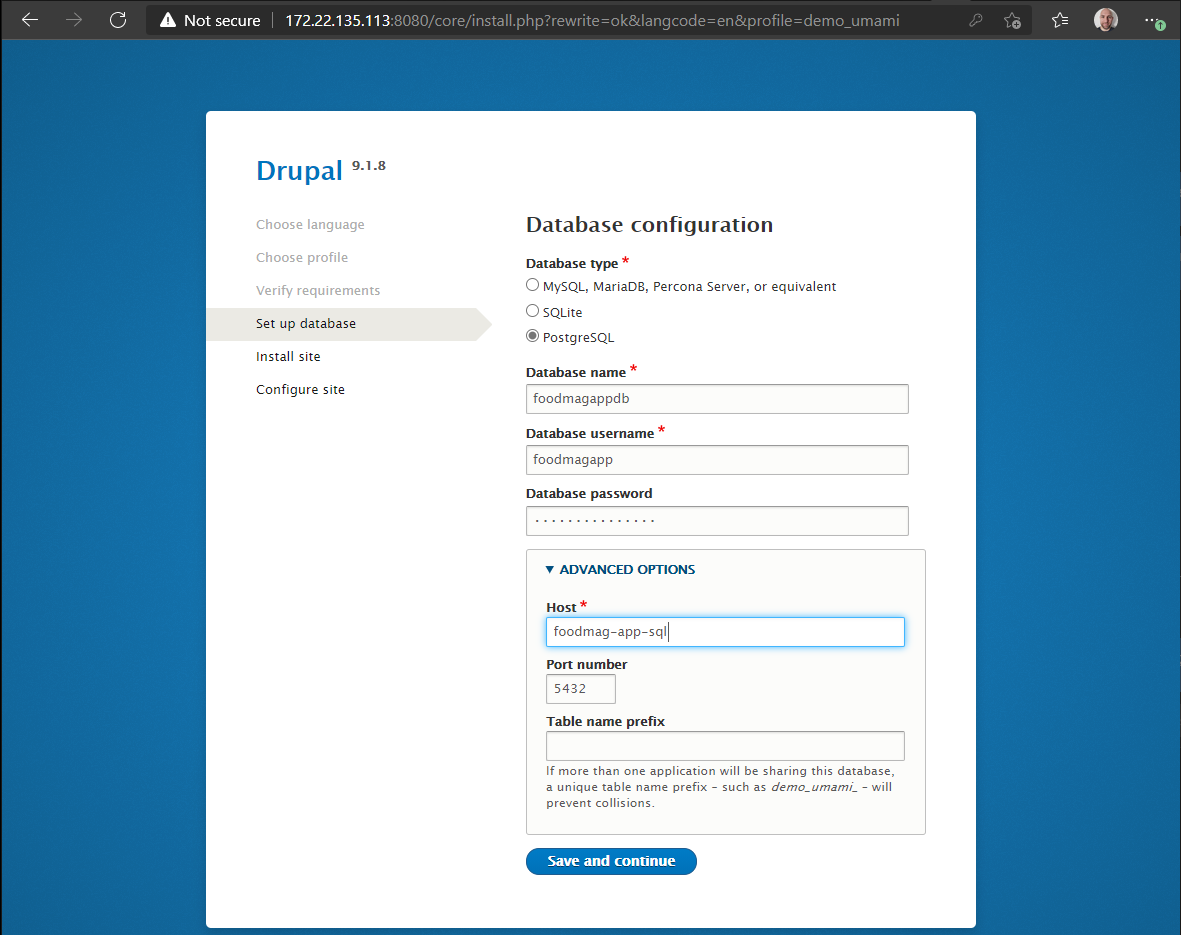
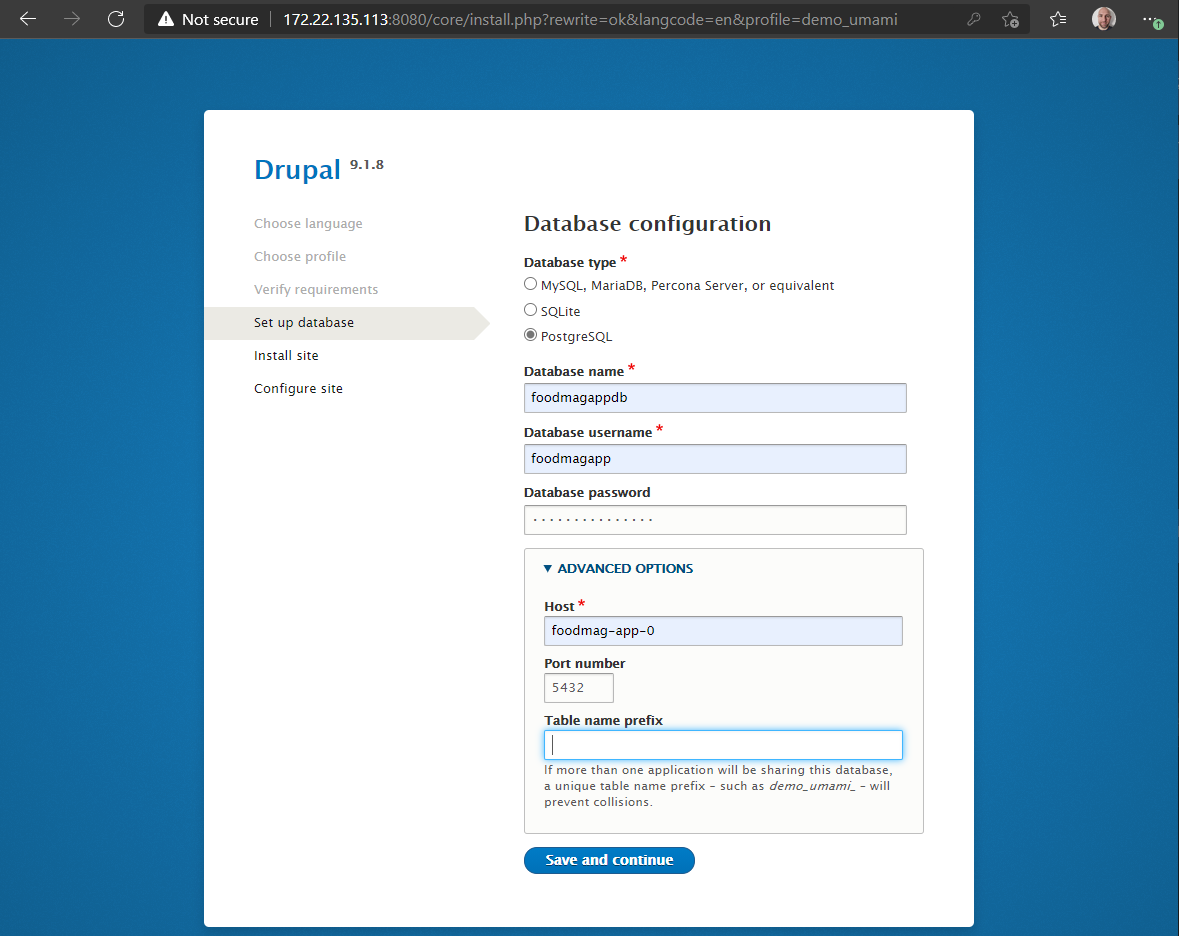
work on 201

diff --git a/doc/201/README.md b/doc/201/README.md
@@ -325,9 +325,11 @@ NAME                           READY   AGE   CONTAINERS                        I
 statefulset.apps/foodmag-app   1/1     8h    foodmag-app-sql,foodmag-app-cms   postgres:latest,drupal:latest
 ```
 
+Notes:
+- As discussed above, due to the exposure radius, the CMS use a [k8s service](https://kubernetes.io/docs/concepts/services-networking/service/) type ```NodePort``` to expose the service to the outside world while the database is using a ```ClusterIP``` to expose the service only within the cluster bubble.
+- At the current state, no external IP is currently assigned, which is expected. 
 
-
-Note at the current state, no external IP is currently assigned, which is expected. For the current time, a specific process will use to access the CMS front-end on a local machine:
+For the current time, a forwarding process will use to access the CMS front-end on a local machine:
 
 ```
 ip a
@@ -343,11 +345,27 @@ kubectl port-forward -n foodmag-app service/foodmag-app-cms-service 8080:80 --ad
 Forwarding from 172.22.135.113:8080 -> 80
 ```
 
-Open a browser with as URL ```172.22.135.113:8080``` which should show the following:
+Open a browser with as URL ```172.22.135.113:8080``` which should show the following:  
 
-![foodmag-app browser](images/foodmag-app_browser.png)
+Welcome page to install the CMS
+![foodmag-app browser](images/foodmag-app_browser-01.png)
+
+Select Demo to insert the foodmag data
 ![foodmag-app browser](images/foodmag-app_browser-02.png)
+
+Provide the database details (see env details from the statefulset): 
+- select PostgreSQL
+- database name
+- database username
+- database password
+- database service name
+
 ![foodmag-app browser](images/foodmag-app_browser-03.png)
+
+Installation in progress (with more questions about name, email,...):
 ![foodmag-app browser](images/foodmag-app_browser-04.png)
+
+Tadadaaaaaa! Here our website!
 ![foodmag-app browser](images/foodmag-app_browser-05.png)
-![foodmag-app browser](images/foodmag-app_browser-06.png)
+
+
